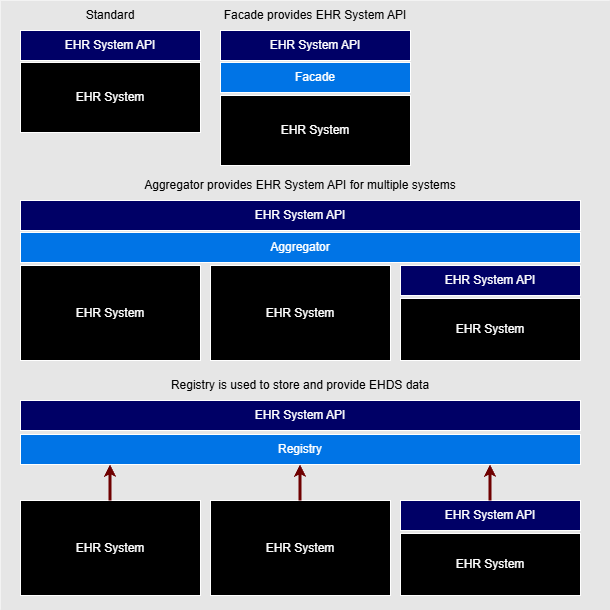
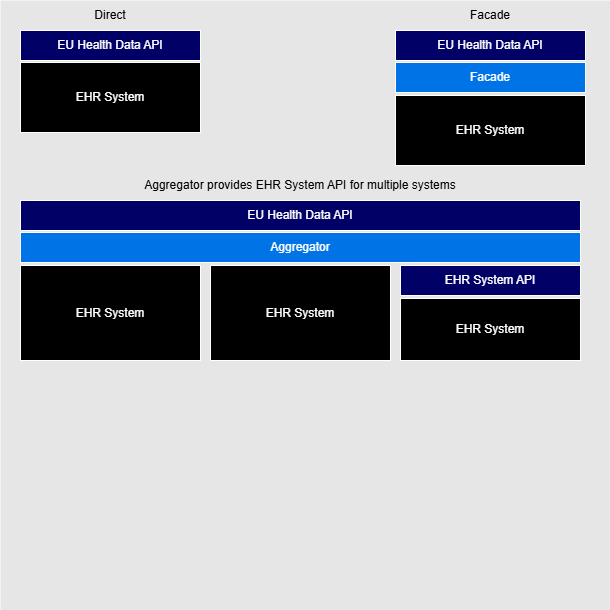
Polish use case pages and update deployment-options diagram
- implementation.md: final wording tweaks from Josh review
- usecase-cross-border-ncp.md: trim and tighten
- usecase-health-data-portal.md: trim and tighten
- usecase-health-professional-portal.md: trim and tighten
- deployment-options.drawio.png: updated diagram

diff --git a/input/pagecontent/usecase-cross-border-ncp.md b/input/pagecontent/usecase-cross-border-ncp.md
@@ -1,42 +1,27 @@
 ### Overview
 
-Health information is exchanged across borders through National Contact Points (NCPs) using the MyHealth@EU network.
+Cross-border exchange routes through National Contact Points (NCPs) over the MyHealth@EU network ([Art. 23(2)](https://eur-lex.europa.eu/legal-content/EN/TXT/HTML/?uri=OJ:L_202500327#art_23)). When a patient from Country A receives care in Country B, Country B's NCP requests the patient's data from Country A's NCP, which then queries national infrastructure to retrieve it.
 
-### How Cross-Border Exchange Works
+This IG defines the API at the **final step** — how national infrastructure (or the NCP itself) queries EHR systems for the patient's data.
 
-NCPs communicate with each other via the **MyHealth@EU network**. When a **patient** from Country A needs care in Country B:
+### Scope
 
-1. Country B's healthcare facility requests data through their NCP
-2. NCPs exchange data over MyHealth@EU
-3. Country A's NCP queries national infrastructure to retrieve the patient's data
+NCP-to-NCP exchange over MyHealth@EU is governed by the [NCPeH API specification](https://build-fhir.ehdsi.eu/ncp-api/), not by this IG. National infrastructure design — how a Member State routes an NCP query to the holding EHR systems — is a Member State choice (see [Cross-Organization via National Infrastructure](usecase-cross-org.html)).
 
-**This IG enables the final step**: Country A's national infrastructure (or the NCP itself) acts as a **Consumer** to query EHR systems that are **Access Providers**.
+### Participants
 
-### Actor Groupings
-
-- **NCP or National Infrastructure** acts as [Document Consumer](actors.html#document-consumer) (according to [Grouping Example 1, 1b, 1c or 2](actors.html#example-groupings)) or [Resource Consumer](actors.html#resource-consumer) (according to [Grouping Example 3](actors.html#example-groupings))
-- **EHR systems** act as [Document Access Provider](actors.html#document-access-provider) or [Resource Access Provider](actors.html#resource-access-provider) accordingly
+- **NCP or national infrastructure** — acts as [Document Consumer](actors.html#document-consumer) and/or [Resource Consumer](actors.html#resource-consumer) of the EHR API
+- **EHR system** — [Document Access Provider](actors.html#document-access-provider) and/or [Resource Access Provider](actors.html#resource-access-provider); the conformance target of this IG
 
 ### Architecture
 
 ```
-Country B Facility → NCP-B → MyHealth@EU → NCP-A → National Infrastructure → EHR System API
-                                                                              ↑
-                                                                    This IG defines this API
+Country B facility → NCP-B → MyHealth@EU → NCP-A → National infrastructure → EHR System API
+                       └──── NCPeH API ────┘        └──── MS choice ────┘     └── This IG ──┘
 ```
 
-### Role of This Specification
+All layers exchange EEHRxF-formatted data.
 
-| Layer | Defined By |
-|-------|-----------|
-| Cross-Border API (MyHealth@EU) | [MyHealth@EU NCPeH API](https://build-fhir.ehdsi.eu/ncp-api/) |
-| National Infrastructure API | Member States |
-| **EHR System API** | **This IG** |
+### Authorization
 
-All layers exchange EEHRxF-formatted data to ensure semantic interoperability.
-
-### Authorization Context
-
-- Patient consent for cross-border access
-- Healthcare professional authentication in requesting country
-- Authorization decisions at NCP, national infrastructure, and EHR system levels
+Cross-border patient consent, health-professional authentication in the requesting country, and authorization at the NCP and national-infrastructure layers are governed by MyHealth@EU and Member State infrastructure — not by this IG. At the EHR API surface, the consumer is an authorized national-infrastructure component; how that authorization was established is out of scope here.

diff --git a/input/pagecontent/usecase-health-professional-portal.md b/input/pagecontent/usecase-health-professional-portal.md
@@ -1,30 +1,25 @@
 ### Overview
 
-A **Health Professional Access Service** enables healthcare professionals to access **patient** health information by querying **Provider** systems for EEHRxF data.
+A **Health Professional Access Service** ([Art. 12](https://eur-lex.europa.eu/legal-content/EN/TXT/HTML/?uri=OJ:L_202500327#art_12)) enables a health professional to query patient health information from EHR systems. The service authenticates the professional, locates the patient, and queries one or more EHR systems for that patient's data.
 
-### Actors
+### Scope
 
-- **Health Professional Access Service** acts as [Document Consumer](actors.html#document-consumer) and/or [Resource Consumer](actors.html#resource-consumer)
-- **EHR systems** act as [Document Access Provider](actors.html#document-access-provider) and/or [Resource Access Provider](actors.html#resource-access-provider)
+This IG defines the API the access service uses when querying EHR systems. The access service itself — including how the professional authenticates, how the patient is selected, and how queries are routed across EHR systems — is governed by Member State requirements and is out of scope here.
+
+### Participants
+
+- **Health Professional Access Service** — [Document Consumer](actors.html#document-consumer) and/or [Resource Consumer](actors.html#resource-consumer)
+- **EHR system** — [Document Access Provider](actors.html#document-access-provider) and/or [Resource Access Provider](actors.html#resource-access-provider)
 
 ### Workflow
 
-1. Healthcare professional authenticates to the service
-2. Professional selects the patient
-3. Service performs [patient matching](patient-match.html) against Provider systems
-4. Service queries for available [documents](document-exchange.html) and/or [resources](resource-access.html)
-5. Professional reviews retrieved health information
+1. Health professional authenticates to the access service
+2. Service identifies the patient (see [Patient Lookup](patient-match.html))
+3. Service queries EHR systems for [documents](document-exchange.html) and/or [resources](resource-access.html)
+4. Professional reviews the retrieved data
 
-### Technical Flow
+The service may query EHR systems directly, through national infrastructure that federates queries, or through a combination — see [Cross-Organization via National Infrastructure](usecase-cross-org.html).
 
-The service implements Consumer actors, querying Provider systems using:
-- [Authorization](authorization.html) - System-to-system using SMART Backend Services
-- [Patient Match](patient-match.html) - Identifying patient across systems
-- [Document Exchange](document-exchange.html) and/or [Resource Access](resource-access.html) - Retrieving health data
+### Authorization
 
-### Deployment Options
-
-The service may query:
-- Multiple EHR systems directly
-- National infrastructure that federates queries
-- Regional health information exchange systems
+The professional's identity and authorization are established at the access service. At the EHR API surface, the consumer is an authorized system-to-system caller; the mechanism — for example SMART Backend Services credentials issued by a national authorization server — is described in [Authorization](authorization.html).

diff --git a/input/pagecontent/usecase-health-data-portal.md b/input/pagecontent/usecase-health-data-portal.md
@@ -1,28 +1,23 @@
 ### Overview
 
-A **Health Data Access Service** enables a **patient** to access their own health data from **Provider** systems (Proxy Service as defined in EHDS Article 4).
-
-### Actors
-
-- **Health Data Access Service** acts as [Document Consumer](actors.html#document-consumer) and/or [Resource Consumer](actors.html#resource-consumer)
-- **EHR systems** act as [Document Access Provider](actors.html#document-access-provider) and/or [Resource Access Provider](actors.html#resource-access-provider)
+A **Health Data Access Service** ([Art. 4](https://eur-lex.europa.eu/legal-content/EN/TXT/HTML/?uri=OJ:L_202500327#art_4)) enables a patient to access their own health data from EHR systems. The service authenticates the patient and queries EHR systems on the patient's behalf.
 
 ### Scope
 
-This use case does not define complete requirements for the service itself; it defines how a service could use this interoperability model to access health data.
+This IG defines the API the access service uses when querying EHR systems. The access service itself — patient authentication (national eID, EU Digital Identity Wallet), consent management, and how queries are routed across EHR systems — is governed by Member State requirements and is out of scope here.
+
+### Participants
+
+- **Health Data Access Service** — [Document Consumer](actors.html#document-consumer) and/or [Resource Consumer](actors.html#resource-consumer)
+- **EHR system** — [Document Access Provider](actors.html#document-access-provider) and/or [Resource Access Provider](actors.html#resource-access-provider)
 
 ### Workflow
 
-1. Patient logs into the service (e.g., national eID)
-2. Patient reviews and manages consent preferences
-3. Service queries Provider systems for patient's data
-4. Service displays [documents](document-exchange.html) and [resources](resource-access.html) in patient-friendly format
-5. Patient downloads or shares information as needed
+1. Patient authenticates to the access service (e.g., national eID, EU Digital Identity Wallet)
+2. Patient reviews and manages consent preferences within the service
+3. Service queries EHR systems for the patient's [documents](document-exchange.html) and/or [resources](resource-access.html)
+4. Service presents data to the patient
 
-### Technical Flow
+### Authorization
 
-The service implements Consumer actors using [system-to-system authorization](authorization.html):
-- Patient authenticates to the Health Data Access Service (out of scope for this IG)
-- Service authenticates to Provider systems using backend services credentials
-- Service queries only for data belonging to the authenticated patient
-- Patient consent preferences are enforced by the service and/or provider systems
+The patient's identity and authorization are established at the access service. At the EHR API surface, the consumer is an authorized system-to-system caller; the mechanism is described in [Authorization](authorization.html). Patient consent preferences are enforced by the access service and/or the EHR system per Member State policy.

diff --git a/input/pagecontent/implementation.md b/input/pagecontent/implementation.md
@@ -2,7 +2,7 @@ This IG defines the API contract for EHR systems under EHDS. The EHR system API 
 
 ### The EHDS Interoperability Landscape
 
-The diagram below shows the main EHDS actors and the API boundaries between them. Blue boxes represent API or scenario boundaries discussed by this IG.
+The diagram below shows the main EHDS actors and the API boundaries between them. The blue boxes represent deployment scenarios where the functionality described in this Implementation Guide can be used.
 
 <div>
   <figure class="figure">
@@ -40,11 +40,11 @@ Member States must operate the national and cross-border infrastructure that ena
 
 **Healthcare providers**
 
-Healthcare providers deploy one or more EHR systems for care delivery, including EHR systems which support *internal* clinical workflows within an organization as well as EHR systems which support *cross-organization* exchange with national infrastructure, for example to meet the member state requirement [Art. 23(5)](https://eur-lex.europa.eu/legal-content/EN/TXT/HTML/?uri=OJ:L_202500327#art_23) to connect their data to the national NCP for cross-border exchange.
+Healthcare providers deploy one or more EHR systems to support care delivery, including EHR systems which support *internal* clinical workflows within an organization as well as EHR systems which support *cross-organization* exchange with national infrastructure, for example to meet the member state requirement [Art. 23(5)](https://eur-lex.europa.eu/legal-content/EN/TXT/HTML/?uri=OJ:L_202500327#art_23) to connect their data to the national NCP for cross-border exchange.
 
 **EHR systems**
 
-EHR systems must conform to the Interoperability Component implemented in this IG. [Art. 25(1)](https://eur-lex.europa.eu/legal-content/EN/TXT/?uri=CELEX:32025R0327#art_25) requires EHR systems to include the European interoperability software component; [Annex II §2.1–2.4](https://eur-lex.europa.eu/legal-content/EN/TXT/?uri=CELEX:32025R0327#anx_II) requires that component to provide and receive priority-category data in EEHRxF format. 
+EHR systems must conform to the Interoperability Component implemented in this IG. [Art. 25(1)](https://eur-lex.europa.eu/legal-content/EN/TXT/?uri=CELEX:32025R0327#art_25) requires EHR systems to include the European interoperability software component; [Annex II §2.1–2.4](https://eur-lex.europa.eu/legal-content/EN/TXT/?uri=CELEX:32025R0327#anx_II) requires that component to provide and receive priority-category data in EEHRxF format.
 
 An EHR system may implement the API directly, or the capability may be delivered by an associated gateway or facade that is treated as part of the deployed EHR system. 
 
@@ -54,21 +54,16 @@ Wellness applications may optionally claim EHR interoperability component confor
 
 Wellness applications can also be used to support the EHDS Patient right to insert data into their EHR ([Art. 5](https://eur-lex.europa.eu/legal-content/EN/TXT/HTML/?uri=OJ:L_202500327#art_5), [Art. 48(2)](https://eur-lex.europa.eu/legal-content/EN/TXT/HTML/?uri=OJ:L_202500327#art_48)). This use case is not defined in this IG, but is considered for future work. 
 
-Whether a wellness application connects directly to an EHR system directly or through the health data access service is not specified by the regulation and is left free to implementation.
+Whether a wellness application connects to an EHR system directly or through the health data access service is not specified by the regulation and is left free to implementation.
 
-### Use Cases
 
-EHR systems can be deployed in different scenario, described below:
+### Deployment Scenarios
 
-#### Deployment Scenarios
-
-- [**Organization-Internal Exchange**](usecase-ehr-internal.html) — How a healthcare provider using multiple EHR systems can connect them together.
+- [**Organization-Internal Exchange**](usecase-ehr-internal.html) — How a healthcare provider using multiple EHR systems can connect them together, to serve internal workflows or aggregate data for external exchange
 
 - [**Cross-Organization via National Infrastructure**](usecase-cross-org.html) — How EHR systems act as participants in national interoperability infrastructure to exchange data cross-organization.
 
-- [**Cross-Border via NCP**](usecase-cross-border-ncp.html) — How supports cross-border exchange of data via national interobperability infrastructure, National Contact Points, and MyHealth@EU.
-
-#### Access Service Scenarios
+- [**Cross-Border via NCP**](usecase-cross-border-ncp.html) — How EHR systems support cross-border exchange of data via national interoperability infrastructure, National Contact Points, and MyHealth@EU.
 
 - [**Health Professional Access Service**](usecase-health-professional-portal.html) — Health professionals accessing EEHRxF data through a member state access service.
 
@@ -76,6 +71,6 @@ EHR systems can be deployed in different scenario, described below:
 
 - [**Wellness App Access**](usecase-wellness-app.html) — Patients accessing their own health data via Wellness Applications.
 
-#### Walkthrough
+#### End-to-End Use Cases
 
 - [**Retrieve a European Patient Summary**](example-patient-summary.html) — Step-by-step: authorization, patient lookup, document query, and document retrieval.